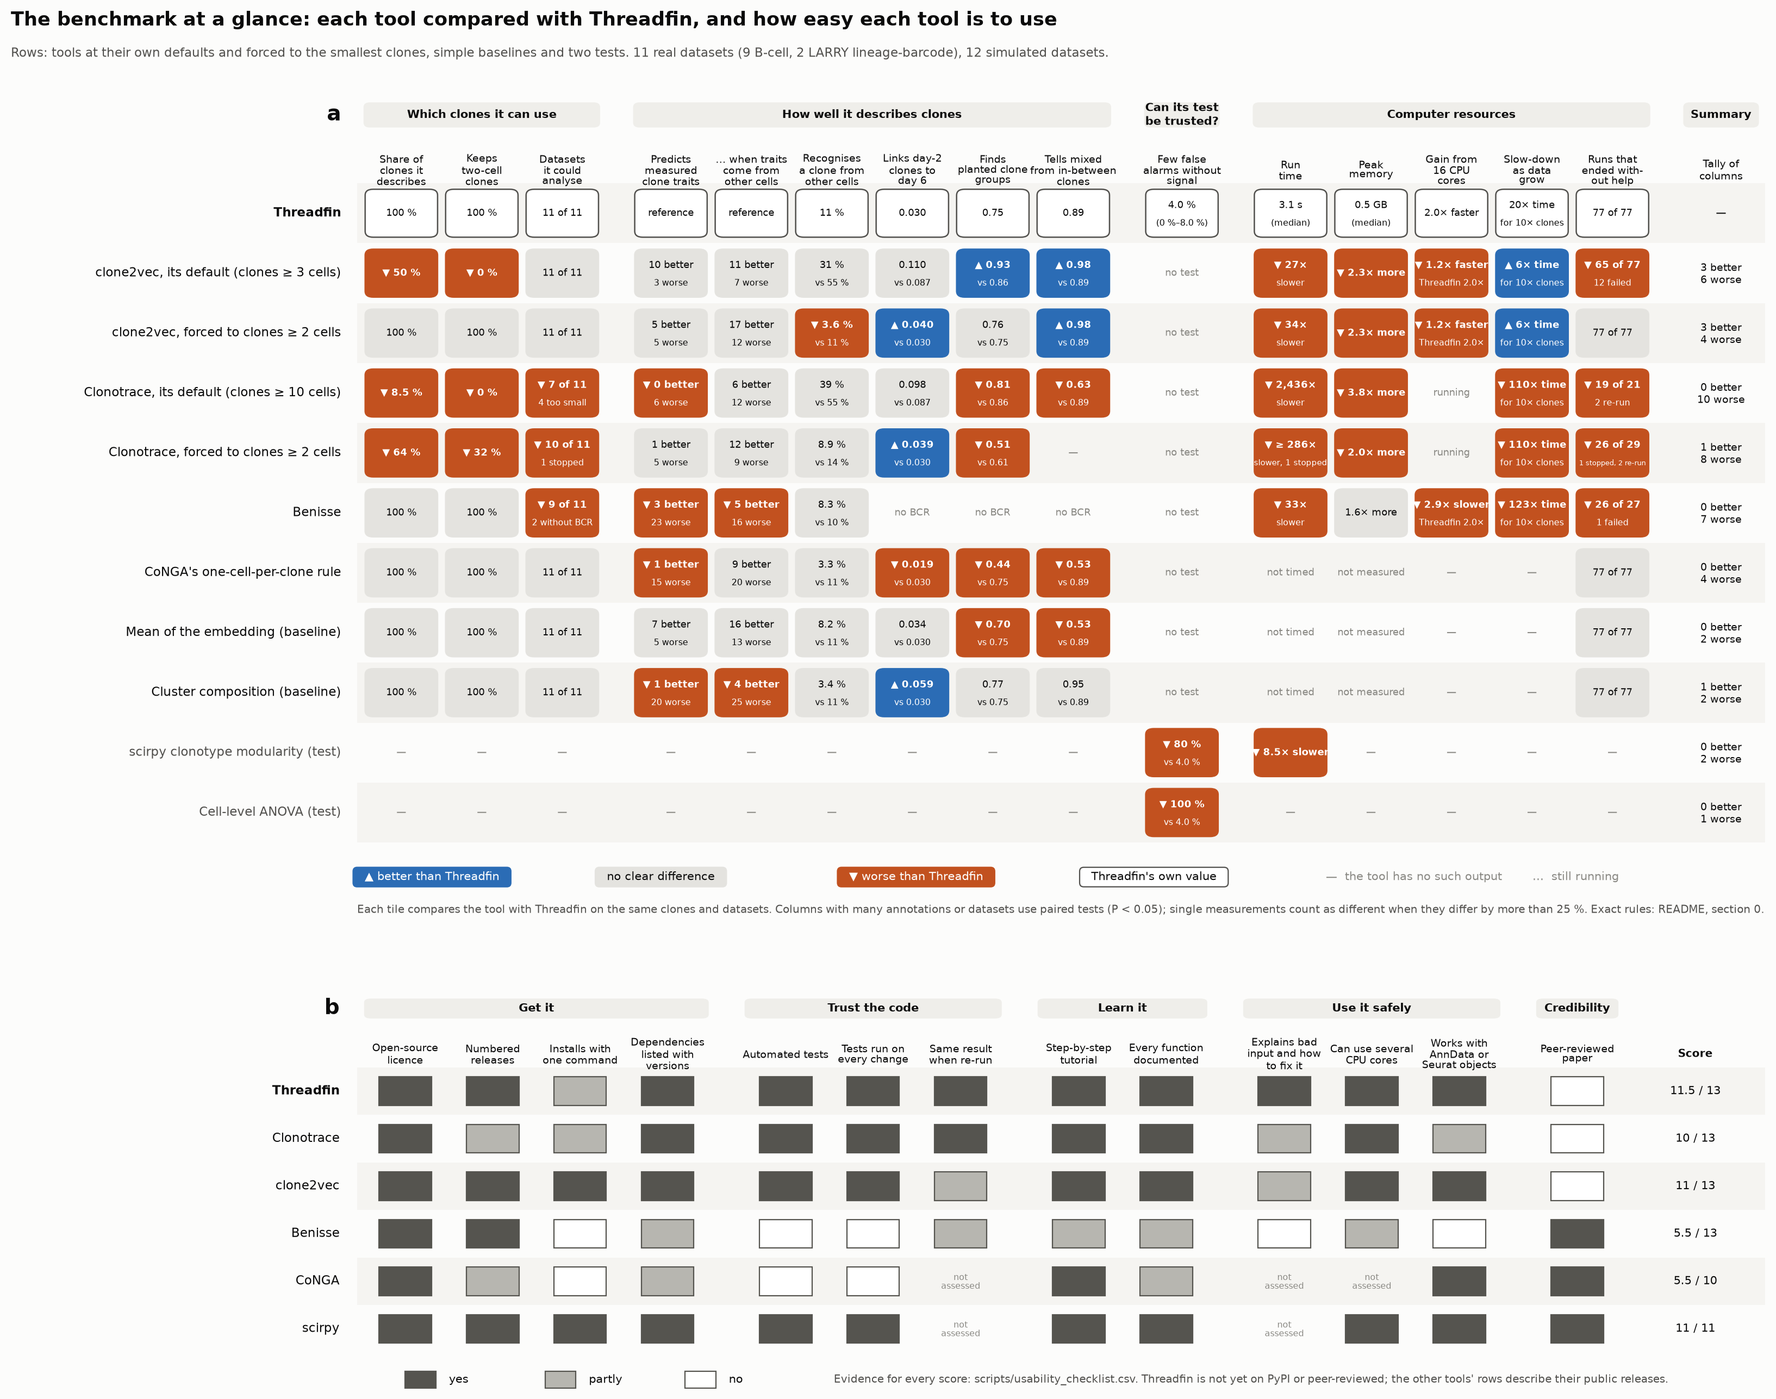
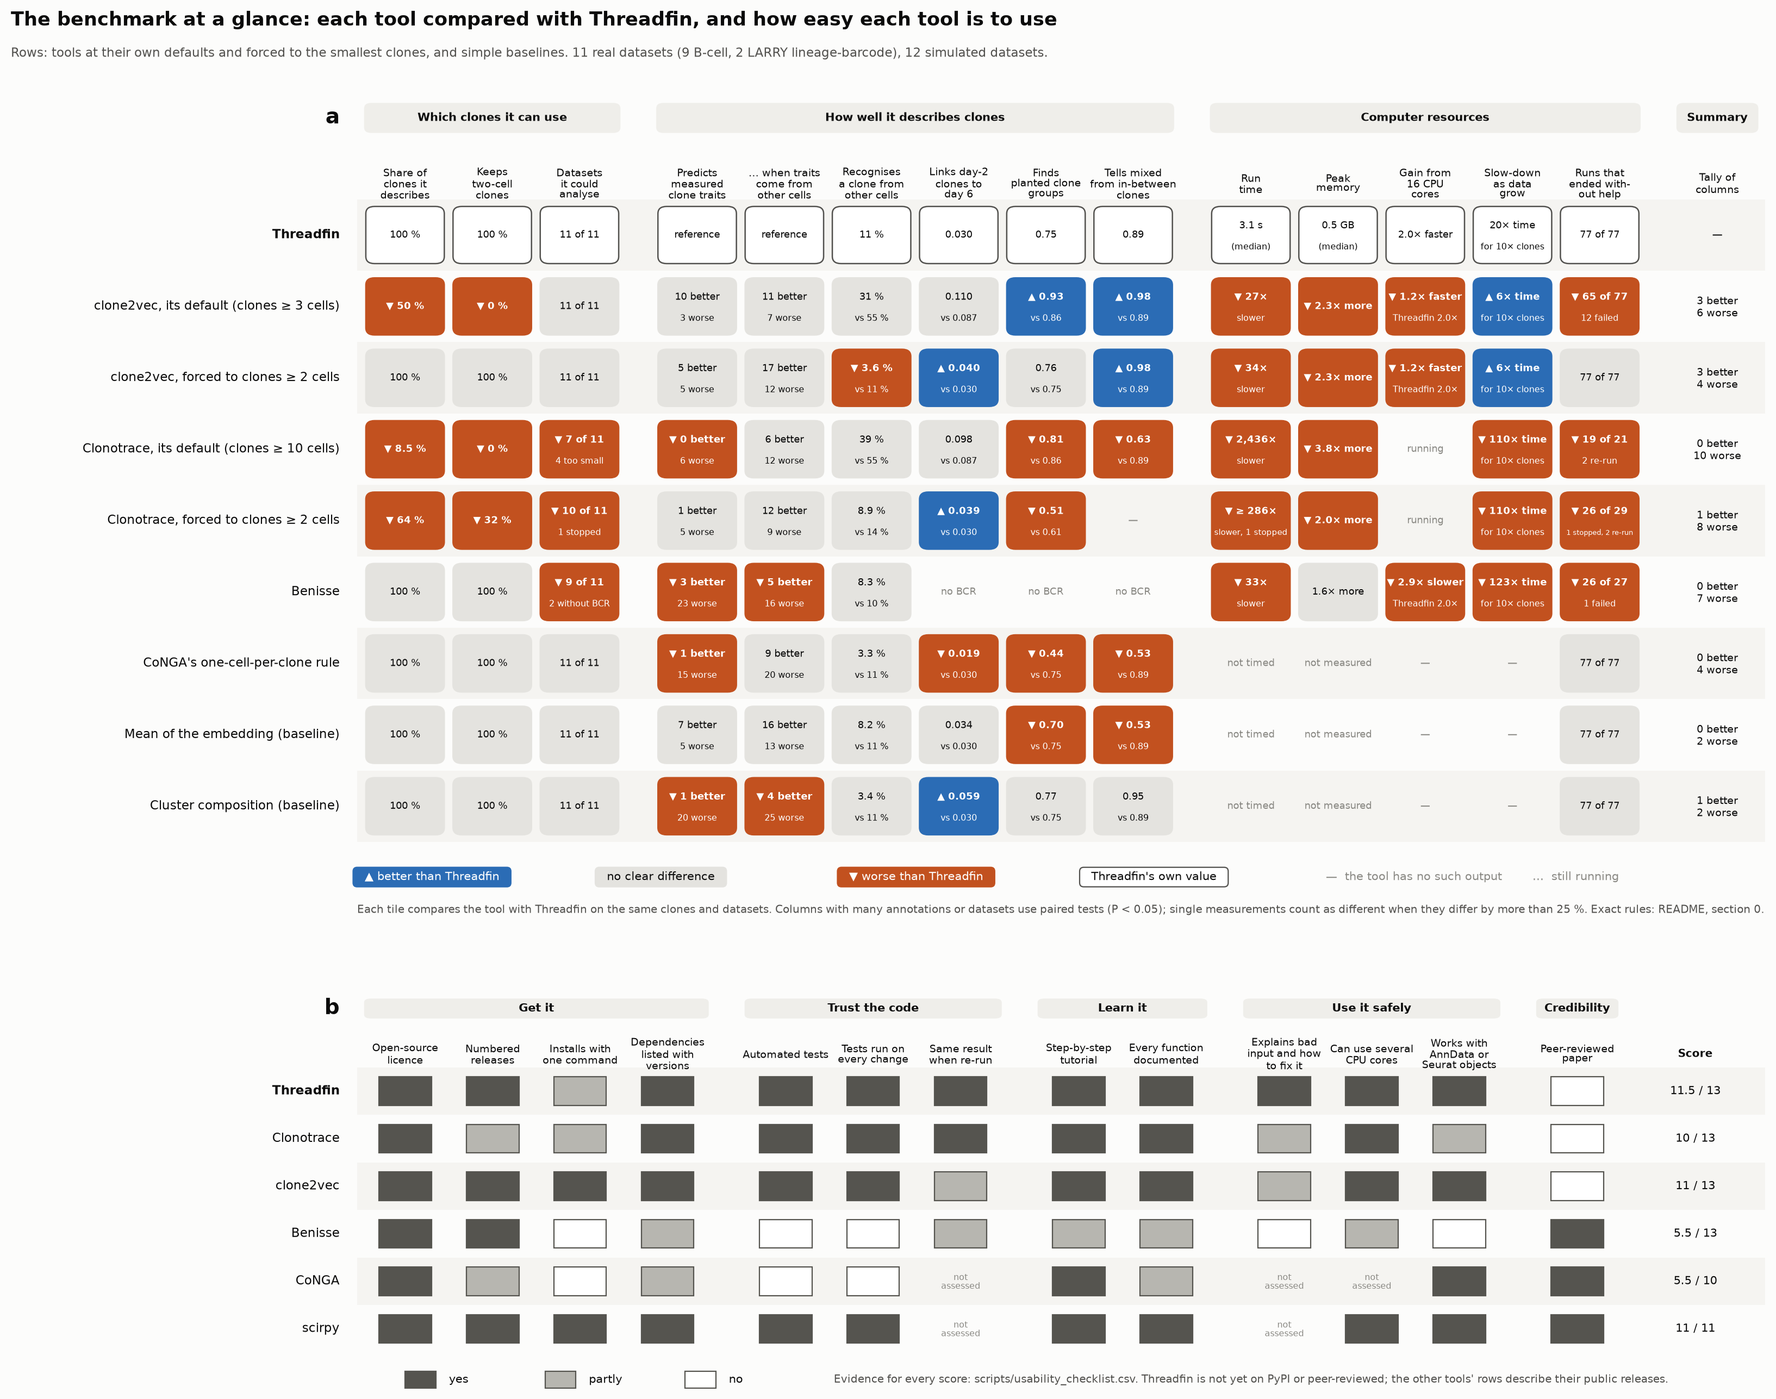
Benchmark overview without the test-calibration column; record approved manuscript items
The overview now compares representations only (test calibration stays in section 6.6);
the GSE287123 library-confound paragraph and the 2026-10-23 preprint edits are approved.

diff --git a/manuscript/benchmarking/scripts/make_overview.py b/manuscript/benchmarking/scripts/make_overview.py
@@ -14,7 +14,6 @@ results/overview.csv. Usage: python make_overview.py
 """
 from __future__ import annotations
 
-import glob
 import json
 import textwrap
 from dataclasses import dataclass
@@ -46,8 +45,6 @@ ROWS = [  # label, key, kind
     ("CoNGA's one-cell-per-clone rule", "conga_medoid", "baseline"),
     ("Mean of the embedding (baseline)", "mean_pca", "baseline"),
     ("Cluster composition (baseline)", "composition", "baseline"),
-    ("scirpy clonotype modularity (test)", "scirpy", "test"),
-    ("Cell-level ANOVA (test)", "anova", "test"),
 ]
 COLUMNS = [  # key, group, label
     ("coverage", "Which clones it can use", "Share of\nclones it\ndescribes"),
@@ -59,7 +56,6 @@ COLUMNS = [  # key, group, label
     ("fate", "How well it describes clones", "Links day-2\nclones to\nday 6"),
     ("sim_groups", "How well it describes clones", "Finds\nplanted clone\ngroups"),
     ("sim_mixed", "How well it describes clones", "Tells mixed\nfrom in-between\nclones"),
-    ("false_alarms", "Can its test\nbe trusted?", "Few false\nalarms without\nsignal"),
     ("time", "Computer resources", "Run\ntime"),
     ("memory", "Computer resources", "Peak\nmemory"),
     ("cores", "Computer resources", "Gain from\n16 CPU\ncores"),
@@ -87,9 +83,6 @@ RULES = {
                   "programme; Wilcoxon over simulated datasets.",
     "sim_mixed": "AUROC for telling clones made of two kinds of cells from clones of cells halfway between them "
                  "(clones ≥ 10 cells); Wilcoxon over simulated datasets.",
-    "false_alarms": "share of replicates in which the test reports clonal structure after clone labels were "
-                    "shuffled within each sample (no clonal signal), median over datasets; Wilcoxon over datasets. "
-                    "Only scirpy and the ANOVA test the same hypothesis; the other tools have no test.",
     "time": "time to compute the clone representation, divided by Threadfin's on the same dataset (median); "
             "Clonotrace: only runs whose clone distances used several R sessions, a run stopped at 72 h counted as "
             "72 h. Better or worse: every ratio beyond 25 % in the same direction, otherwise a Wilcoxon test on "
@@ -188,8 +181,6 @@ class Overview:
         self.sim = read("simulation.csv")
         self.res = read("resources.csv")
         self.status = read("run_status.csv")
-        files = sorted(glob.glob(str(RESULTS / "tests" / "*.csv")))
-        self.tests = pd.concat([pd.read_csv(f) for f in files], ignore_index=True) if files else None
 
     # helpers -----------------------------------------------------------------
     def runs(self, key):
@@ -331,22 +322,6 @@ class Overview:
         return Cell(v, f"{both.iloc[:, 0].median():.2f}\nvs {both.iloc[:, 1].median():.2f}", f"{len(both)} simulated datasets",
                     len(both), p)
 
-    # tests ---------------------------------------------------------------------
-    def false_alarms(self, key):
-        if self.tests is None:
-            return Cell("pending", "…")
-        nw = self.tests[self.tests["scenario"].eq("null_within_sample")]
-        rate = pd.DataFrame({"tf": nw.groupby("dataset")["threadfin_p"].apply(lambda p: (p < 0.05).mean()),
-                             "scirpy": nw.groupby("dataset")["scirpy_n_clones_fdr05"].apply(lambda n: (n > 0).mean()),
-                             "anova": nw.groupby("dataset")["cell_anova_p"].apply(lambda p: (p < 0.05).mean())})
-        if key == TF:
-            return Cell("ref", f"{pct(rate['tf'].median())}\n({pct(rate['tf'].min())}–{pct(rate['tf'].max())})",
-                        n=len(rate))
-        if key not in ("scirpy", "anova"):
-            return Cell("na", "no test")
-        v, p = paired(rate[key] - rate["tf"], higher_better=False)
-        return Cell(v, f"{pct(rate[key].median())}\nvs {pct(rate['tf'].median())}", f"{len(rate)} datasets", len(rate), p)
-
     # resources -----------------------------------------------------------------
     def _usable_runs(self, key):
         r = self.runs(key)
@@ -361,14 +336,8 @@ class Overview:
         if key == TF:
             t = self.runs(TF)["seconds_method"]
             return Cell("ref", f"{t.median():.1f} s\n(median)")
-        if key == "scirpy":
-            nw = self.tests[self.tests["scenario"].eq("null_within_sample")]
-            g = nw.groupby("dataset")[["seconds_scirpy", "seconds_threadfin"]].median()
-            ratios = g["seconds_scirpy"] / g["seconds_threadfin"]
-            v, p = ratio_verdict(ratios)
-            return Cell(v, times_text(float(np.median(ratios))), "the test alone, per replicate", len(ratios), p)
-        if key in ("anova",) or key in ("conga_medoid", "mean_pca", "composition"):
-            return Cell("na", "—" if key == "anova" else "not timed")
+        if key in ("conga_medoid", "mean_pca", "composition"):
+            return Cell("na", "not timed")
         r, tf = self._usable_runs(key)
         sec = np.where(r["status"].eq("stopped"), STOP_SECONDS,
                        r["seconds_method"].fillna(r["wall_seconds_task"]).to_numpy(float))
@@ -383,8 +352,8 @@ class Overview:
     def memory(self, key):
         if key == TF:
             return Cell("ref", f"{self.runs(TF)['peak_rss_gb_method'].median():.1f} GB\n(median)")
-        if key in ("scirpy", "anova", "conga_medoid", "mean_pca", "composition"):
-            return Cell("na", "—" if key in ("scirpy", "anova") else "not measured")
+        if key in ("conga_medoid", "mean_pca", "composition"):
+            return Cell("na", "not measured")
         r, tf = self._usable_runs(key)
         r = r[r["status"].eq("completed")]
         ratios = r["peak_rss_gb_task"].to_numpy(float) / tf.loc[r["dataset"], "peak_rss_gb_method"].to_numpy(float)
@@ -445,7 +414,7 @@ class Overview:
 
     def finished(self, key):
         st = self.status
-        if st is None or key in ("scirpy", "anova"):
+        if st is None:
             return Cell("na", "—")
         runs = {"clonotrace_revised_min10": ["clonotrace_min10"], "clonotrace_revised_min2": ["clonotrace_min2"],
                 "benisse": ["benisse_min2", "benisse_min10"]}.get(key, [key])
@@ -471,12 +440,9 @@ class Overview:
              "traits_disjoint": lambda: self.traits_disjoint(key), "reid": lambda: self.reid(key),
              "fate": lambda: self.fate(key), "sim_groups": lambda: self.simulation(key, "programme_purity"),
              "sim_mixed": lambda: self.simulation(key, "mixture_vs_intermediate_auroc"),
-             "false_alarms": lambda: self.false_alarms(key), "time": lambda: self.time(key),
+             "time": lambda: self.time(key),
              "memory": lambda: self.memory(key), "cores": lambda: self.cores(key),
              "growth": lambda: self.growth(key), "finished": lambda: self.finished(key)}[col]
-        test_only = key in ("scirpy", "anova")
-        if test_only and col not in ("false_alarms", "time"):
-            return Cell("na", "—")
         if key == "benisse" and col in ("fate", "sim_groups", "sim_mixed"):
             return Cell("na", "no BCR")
         try:
@@ -631,8 +597,8 @@ def draw(cells: dict, u: pd.DataFrame):
             fontsize=7.2, color=INK2)
     fig.text(0.012, 0.975, "The benchmark at a glance: each tool compared with Threadfin, and how easy each tool "
              "is to use", fontsize=12.5, fontweight="bold", va="center")
-    fig.text(0.012, 0.952, "Rows: tools at their own defaults and forced to the smallest clones, simple baselines and "
-             "two tests. 11 real datasets (9 B-cell, 2 LARRY lineage-barcode), 12 simulated datasets.",
+    fig.text(0.012, 0.952, "Rows: tools at their own defaults and forced to the smallest clones, and simple baselines. "
+             "11 real datasets (9 B-cell, 2 LARRY lineage-barcode), 12 simulated datasets.",
              fontsize=8.4, color=INK2, va="center")
     return fig
 

diff --git a/manuscript/README.md b/manuscript/README.md
@@ -108,8 +108,8 @@ was retired; its material is in [`analyses/lineage_barcode_systems/`](analyses/l
 | # | Item | Why | Suggested action |
 |---|---|---|---|
 | 1 | **Clone definition of the spontaneous-GC dataset (GSE203132)** — *resolved 2026-10-23* | The deposited AIRR table of GSE203132 holds heavy chains only (8,106 IGH rows), so Fig. 3a–f and Supplementary Fig. 3 use heavy-chain clones, while the Methods say paired chains for every dataset. The light chains were annotated from the deposited contigs with IgBLAST and the clones re-defined on heavy + light chains ([`analyses/spont_gc_paired_chains/`](analyses/spont_gc_paired_chains/README.md)): the light chain splits 481 of 1,051 clones, but the result of Fig. 3d–f is unchanged (entropy vs clone axis ρ −0.747 → −0.754; 8 of 8 mice negative; ICC 0.279 → 0.293). | Keep Figure 3 as fixed by the authors. In Methods, say that GSE203132 clones are heavy-chain clones because the deposited table has no light chains, and that clones re-defined on paired chains from the deposited contigs give the same result (numbers above; a supplementary note or one sentence). The sentence is in the local draft since 2026-10-23. |
-| 2 | **"We did not compare these methods on common tasks"** (Discussion) — *replaced in the local draft 2026-10-23, for the authors to review* | The benchmark in [`benchmarking/`](benchmarking/README.md) compares Threadfin with Clonotrace, clone2vec, Benisse, CoNGA's reduction and scirpy on common tasks. The sentence now summarises it (coverage and test calibration are where Threadfin differs; annotation recovery is similar to clone2vec and to the clone mean; clone2vec groups simulated discrete programmes better). | Review the wording; add the benchmark overview (its Fig. 0) as a supplementary figure if wanted. |
-| 3 | **Library confound of the GSE287123 gates** | The Results paragraph that states that the bait and zone gates are fully determined by sequencing library (and that only the RBD division gate is crossed) was added on 2026-10-18 and awaits the authors' approval. | Approve or edit. |
+| 2 | **"We did not compare these methods on common tasks"** (Discussion) — *replaced in the local draft and accepted by the authors 2026-10-23* | The benchmark in [`benchmarking/`](benchmarking/README.md) compares Threadfin with Clonotrace, clone2vec, Benisse, CoNGA's reduction and scirpy on common tasks. The sentence now summarises it (coverage and test calibration are where Threadfin differs; annotation recovery is similar to clone2vec and to the clone mean; clone2vec groups simulated discrete programmes better). | Optionally add the benchmark overview (its Fig. 0) as a supplementary figure. |
+| 3 | **Library confound of the GSE287123 gates** — *approved by the authors 2026-10-23* | The Results paragraph that states that the bait and zone gates are fully determined by sequencing library (and that only the RBD division gate is crossed) stays in the draft. | — |
 | 4 | **"Paired chains" in the RBD data** — *resolved 2026-10-23* | 797 RBD cells with a clone have no productive light chain; restricted to complete heavy + light pairs (1,772 of 1,887 profiled clones), Figure 4 is unchanged (division excess R² 0.088 → 0.096, crossover cosine 0.887 → 0.884, 10 of 10 mice). The one "light-chain-only" RBD group was an artefact of contig ids reused across libraries (fixed in threadfin 4.4.0; Figure 4 with the corrected clones: 0.085, cosine 0.896, 10 of 10 mice) — [`analyses/rbd_complete_pairs/`](analyses/rbd_complete_pairs/README.md). | One sentence in Methods: clones are Dandelion's paired-chain clones; cells missing one chain keep the clone of the other, and excluding them does not change the result (in the local draft since 2026-10-23). |
 | 5 | Placeholders | affiliation (Zhian Chen), LLM statement, acknowledgements, author contributions, competing interests, Zenodo DOIs, reporting summary | Authors. |
 | 6 | Package version | the analyses used 4.2.0; 4.3.0 only adds automatic clone-map settings, which change no statistic; 4.3.1 stops giving light-chain-only Dandelion groups a clone id (the manuscript's datasets were unaffected except one two-cell RBD group; four additional case studies were re-run without them), fixes the memory use of `tl.export_lag` and records the hash seed of clone calls; 4.4.0 adds `n_jobs` (same results on any number of cores), renames contig ids that repeat across libraries (Figure 4 unchanged, see 2.3-4) and is tested on Python 3.10–3.14; 4.4.1 installs on Windows and is tested on macOS and Windows | Keep the sentence in Methods; archive the versions on Zenodo. |
@@ -367,8 +367,8 @@ Listed by priority. "Before submission" items are also in section 2.3.
    Discussion sentence.
 3. **Deposit code and processed data on Zenodo** (clone tables, profiles, source data for every figure) and
    complete the reporting summary.
-4. **Approve the library-confound paragraph** for GSE287123 (2.3-3) and add the paired-chain completeness
-   sentence for RBD (2.3-4; the sensitivity analysis is done).
+4. ~~Approve the library-confound paragraph~~ (approved 2026-10-23) and ~~add the paired-chain completeness
+   sentence for RBD~~ (in the draft since 2026-10-23).
 
 ### B. Strengthen the evidence
 

diff --git a/manuscript/benchmarking/README.md b/manuscript/benchmarking/README.md
@@ -30,8 +30,9 @@ including the ones where Threadfin is not the best.
 ![The benchmark at a glance](figures/fig0_overview.png)
 
 **How to read it.** In panel **a**, each row is a tool — at its own default and, where it matters, forced down
-to clones of two cells — or one of three simple baselines or two statistical tests. Each column is one
-question of the benchmark, in plain words, grouped as in section 6. Every tile compares the tool with
+to clones of two cells — or one of three simple baselines. Each column is one question of the benchmark, in
+plain words, grouped as in section 6 (the calibration of clonal tests, which only Threadfin, scirpy and a
+cell-level ANOVA address, is in section 6.6). Every tile compares the tool with
 Threadfin on the same clones and datasets: **blue ▲** better than Threadfin, **grey** no clear difference,
 **orange ▼** worse, with the number behind the verdict ("vs" gives Threadfin's value on the same clones);
 Threadfin's own row gives its value. Runs that failed, were stopped or needed help are counted, never dropped.
@@ -56,10 +57,6 @@ s43588-026-00977-z, Fig. 4): 1 = yes, 0.5 = partly, 0 = no, with the evidence fo
   descendants slightly better; clone2vec's run time grows more slowly with the number of clones; and
   Clonotrace gains more from extra cores (2.7 times faster from 4 to 16 cores, against Threadfin's 2.0 from 1
   to 16).
-* **Among the tests compared, only Threadfin's holds its error rate.** With no clonal signal it reports
-  structure in a median 4 % of replicates (0–8 %), against 80 % for scirpy's clonotype modularity and 100 % for
-  a cell-level ANOVA. clone2vec, Clonotrace and Benisse have no test of this question (CoNGA's graph-overlap
-  test asks a different one and was not benchmarked).
 * **Cost and reliability.** clone2vec takes about 30 times and Benisse 33 times Threadfin's time for the
   clone representation; Clonotrace 290–2,400 times. One Clonotrace run (11,141 clones) was stopped after
   72 h and four needed a larger cell graph to finish; clone2vec at its default failed on 12 of 77 runs (small
@@ -84,7 +81,6 @@ How each column's verdict is reached:
 | Links day-2 clones to day 6 | LARRY: mean reciprocal rank of each day-4 clone's own day-6 clone among all day-6 clones; 95 % paired bootstrap interval over clones. |
 | Finds planted clone groups | simulated data with a known answer: share of clones whose nearest clone has the same planted programme; Wilcoxon over simulated datasets. |
 | Tells mixed from in-between clones | AUROC for telling clones made of two kinds of cells from clones of cells halfway between them (clones ≥ 10 cells); Wilcoxon over simulated datasets. |
-| Few false alarms without signal | share of replicates in which the test reports clonal structure after clone labels were shuffled within each sample (no clonal signal), median over datasets; Wilcoxon over datasets. Only scirpy and the ANOVA test the same hypothesis; the other tools have no test. |
 | Run time | time to compute the clone representation, divided by Threadfin's on the same dataset (median); Clonotrace: only runs whose clone distances used several R sessions, a run stopped at 72 h counted as 72 h. Better or worse: every ratio beyond 25 % in the same direction, otherwise a Wilcoxon test on the log ratios (≥ 6 datasets). |
 | Peak memory | peak memory, the same way. |
 | Gain from 16 CPU cores | time with 1 core divided by time with 16 cores (GSE287123 RBD; Threadfin: its complete analysis). Better or worse: more than 25 % from Threadfin's gain. |
@@ -179,7 +175,7 @@ What this means for the manuscript is in section 7 and in [`../README.md`](../RE
 
 <!-- BEGIN:status -->
 
-*Status of the full-data runs when these tables were generated (2026-10-23 20:17, Melbourne time).*
+*Status of the full-data runs when these tables were generated (2026-10-23 21:44, Melbourne time).*
 
 Still running: none.
 

diff --git a/manuscript/benchmarking/results/summary_tables.md b/manuscript/benchmarking/results/summary_tables.md
@@ -2,7 +2,7 @@
 
 ## status
 
-*Status of the full-data runs when these tables were generated (2026-10-23 20:17, Melbourne time).*
+*Status of the full-data runs when these tables were generated (2026-10-23 21:44, Melbourne time).*
 
 Still running: none.
 
@@ -314,7 +314,6 @@ Split-half runs still running (sections 6.4–6.5 use the halves that are comple
 | Links day-2 clones to day 6 | LARRY: mean reciprocal rank of each day-4 clone's own day-6 clone among all day-6 clones; 95 % paired bootstrap interval over clones. |
 | Finds planted clone groups | simulated data with a known answer: share of clones whose nearest clone has the same planted programme; Wilcoxon over simulated datasets. |
 | Tells mixed from in-between clones | AUROC for telling clones made of two kinds of cells from clones of cells halfway between them (clones ≥ 10 cells); Wilcoxon over simulated datasets. |
-| Few false alarms without signal | share of replicates in which the test reports clonal structure after clone labels were shuffled within each sample (no clonal signal), median over datasets; Wilcoxon over datasets. Only scirpy and the ANOVA test the same hypothesis; the other tools have no test. |
 | Run time | time to compute the clone representation, divided by Threadfin's on the same dataset (median); Clonotrace: only runs whose clone distances used several R sessions, a run stopped at 72 h counted as 72 h. Better or worse: every ratio beyond 25 % in the same direction, otherwise a Wilcoxon test on the log ratios (≥ 6 datasets). |
 | Peak memory | peak memory, the same way. |
 | Gain from 16 CPU cores | time with 1 core divided by time with 16 cores (GSE287123 RBD; Threadfin: its complete analysis). Better or worse: more than 25 % from Threadfin's gain. |
